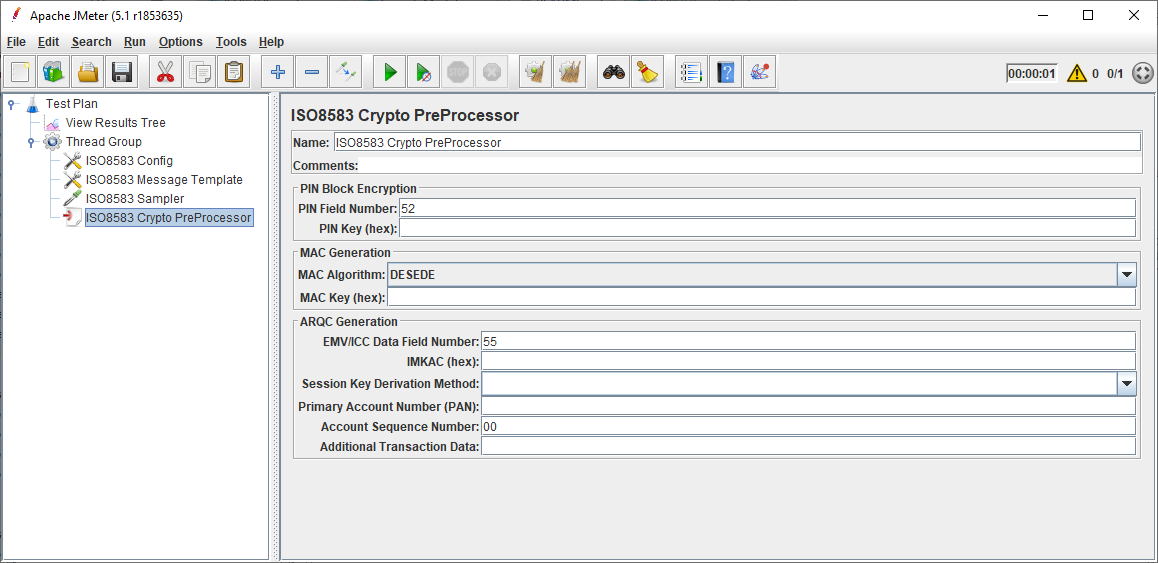
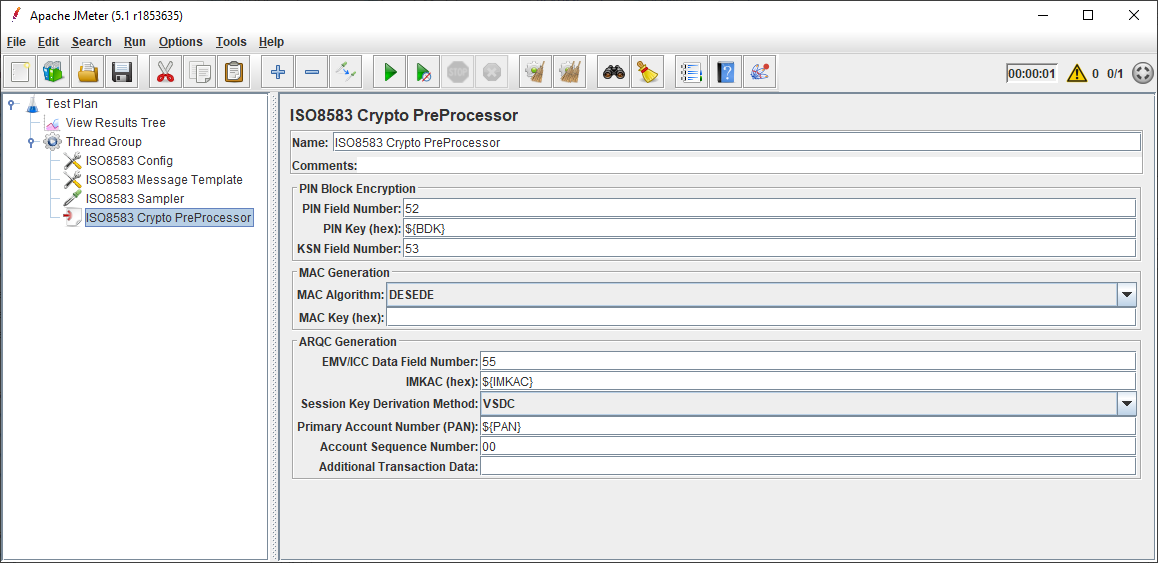
Add DUKPT PIN encryption

Changed region(s): [[0.0, 0.0, 1.0, 1.0]]

diff --git a/src/main/java/nz/co/breakpoint/jmeter/iso8583/ISO8583Crypto.java b/src/main/java/nz/co/breakpoint/jmeter/iso8583/ISO8583Crypto.java
@@ -33,6 +33,7 @@ public class ISO8583Crypto extends AbstractTestElement
         MACKEY = "macKey",
         PINFIELD = "pinField",
         PINKEY = "pinKey",
+        KSNFIELD = "ksnField",
         ICCFIELD = "iccField",
         IMKAC = "imkac",
         SKDM = "skdm",
@@ -114,7 +115,7 @@ public class ISO8583Crypto extends AbstractTestElement
     }
 
     protected void encryptPINBlock(ISO8583Sampler sampler) {
-        final String pinKeyHex = getPinKey(), pinField = getPinField();
+        final String pinKeyHex = getPinKey(), pinField = getPinField(), ksnField = getKsnField();
 
         if (pinField == null || pinField.isEmpty()) {
             log.debug("No PIN field defined, skipping PIN Block encryption");
@@ -141,11 +142,28 @@ public class ISO8583Crypto extends AbstractTestElement
             log.debug("No PIN Block defined, skipping PIN Block encryption");
             return;
         }
-        try {
-            sampler.addField(pinField, securityModule.encryptPINBlock(msg.getBytes(pinField), pinKey));
-        } catch (JCEHandlerException e) {
-            log.error("PIN Block encryption failed {}", e.toString(), e);
+        String encryptedPINBlock;
+        if (ksnField != null && !ksnField.isEmpty()) {
+            if (!msg.hasField(ksnField)) {
+                log.debug("No KSN defined, skipping PIN Block encryption");
+                return;
+            }
+            if (pinKeyHex.length() == 16) {
+                log.error("Incorrect BDK length '{}' (expecting 32 or 48 hex digits)", pinKeyHex);
+                return;
+            }
+            log.debug("KSN found, doing DUKPT encryption");
+            encryptedPINBlock = securityModule.encryptPINBlock(msg.getBytes(pinField), pinKeyHex, msg.getString(ksnField));
+        } else {
+            log.debug("No KSN defined, doing Zone PIN encryption");
+            try {
+                encryptedPINBlock = securityModule.encryptPINBlock(msg.getBytes(pinField), pinKey);
+            } catch (JCEHandlerException e) {
+                log.error("PIN Block encryption failed {}", e.toString(), e);
+                return;
+            }
         }
+        sampler.addField(pinField, encryptedPINBlock);
     }
 
     protected void calculateARQC(ISO8583Sampler sampler) {
@@ -168,10 +186,11 @@ public class ISO8583Crypto extends AbstractTestElement
             log.error("Incorrect IMKAC length '{}' (expecting 32 hex digits)", hexKey);
             return;
         }
+        final Map<String, String> emvData = new HashMap<>();
+        final String arqcFieldNo;
         try {
-            final Map<String, String> emvData = new HashMap<>();
             final ISOComponent emvField = msg.getComponent(fieldNo);
-            final String arqcFieldNo = String.format("%s.%d", fieldNo, emvField.getMaxField()+1);
+            arqcFieldNo = String.format("%s.%d", fieldNo, emvField.getMaxField()+1);
 
             for (Object c : emvField.getChildren().values()) {
                 if (c instanceof ISOTaggedField) {
@@ -184,30 +203,29 @@ public class ISO8583Crypto extends AbstractTestElement
                     log.debug("Ignoring non-tagged field {}", c);
                 }
             }
-            final String[] arqcInputTags = JMeterUtils.getPropDefault(ARQC_INPUT_TAGS,
-                "9F02,9F03,9F1A,95,5F2A,9A,9C,9F37,82,9F36,9F10"
-            ).split(TAG_SEPARATOR_REGEX);
-
-            final StringBuffer transactionData = new StringBuffer();
-            for (String tag : arqcInputTags) {
-                transactionData.append(emvData.getOrDefault(tag, ""));
-            }
-            transactionData.append(getTxnData()); // additional transaction data (as hex string)
-            log.debug("ARQC input bytes '{}'", transactionData);
-
-            final String arqc = securityModule.calculateARQC(MKDMethod.OPTION_A,
-                SKDMethod.valueOf(getSkdm()), hexKey,
-                emvData.getOrDefault(APPLICATION_PRIMARY_ACCOUNT_NUMBER_0x5A.getTagNumberHex(), getPan()),
-                emvData.getOrDefault(APPLICATION_PRIMARY_ACCOUNT_NUMBER_SEQUENCE_NUMBER_0x5F34.getTagNumberHex(), getPsn()),
-                emvData.getOrDefault(APPLICATION_TRANSACTION_COUNTER_0x9F36.getTagNumberHex(), ""),
-                emvData.getOrDefault(UNPREDICTABLE_NUMBER_0x9F37.getTagNumberHex(), ""),
-                transactionData.toString());
-
-            sampler.addField(arqcFieldNo, arqc, APPLICATION_CRYPTOGRAM_0x9F26.getTagNumberHex());
         } catch (ISOException e) {
-            log.error("ARQC calculation failed {}", e.toString(), e);
+            log.error("ARQC input extraction failed {}", e.toString(), e);
             return;
         }
+        final String[] arqcInputTags = JMeterUtils.getPropDefault(ARQC_INPUT_TAGS,
+            "9F02,9F03,9F1A,95,5F2A,9A,9C,9F37,82,9F36,9F10"
+        ).split(TAG_SEPARATOR_REGEX);
+
+        final StringBuffer transactionData = new StringBuffer();
+        for (String tag : arqcInputTags) {
+            transactionData.append(emvData.getOrDefault(tag, ""));
+        }
+        transactionData.append(getTxnData()); // additional transaction data (as hex string)
+
+        final String arqc = securityModule.calculateARQC(MKDMethod.OPTION_A,
+            SKDMethod.valueOf(getSkdm()), hexKey,
+            emvData.getOrDefault(APPLICATION_PRIMARY_ACCOUNT_NUMBER_0x5A.getTagNumberHex(), getPan()),
+            emvData.getOrDefault(APPLICATION_PRIMARY_ACCOUNT_NUMBER_SEQUENCE_NUMBER_0x5F34.getTagNumberHex(), getPsn()),
+            emvData.getOrDefault(APPLICATION_TRANSACTION_COUNTER_0x9F36.getTagNumberHex(), ""),
+            emvData.getOrDefault(UNPREDICTABLE_NUMBER_0x9F37.getTagNumberHex(), ""),
+            transactionData.toString());
+
+        sampler.addField(arqcFieldNo, arqc, APPLICATION_CRYPTOGRAM_0x9F26.getTagNumberHex());
     }
 
     public String getMacAlgorithm() { return getPropertyAsString(MACALGORITHM); }
@@ -221,6 +239,9 @@ public class ISO8583Crypto extends AbstractTestElement
 
     public String getPinField() { return getPropertyAsString(PINFIELD); }
     public void setPinField(String pinField) { setProperty(PINFIELD, pinField); }
+
+    public String getKsnField() { return getPropertyAsString(KSNFIELD); }
+    public void setKsnField(String ksnField) { setProperty(KSNFIELD, ksnField); }
 
     public String getIccField() { return getPropertyAsString(ICCFIELD); }
     public void setIccField(String iccField) { setProperty(ICCFIELD, iccField); }

diff --git a/src/main/java/nz/co/breakpoint/jmeter/iso8583/SecurityModule.java b/src/main/java/nz/co/breakpoint/jmeter/iso8583/SecurityModule.java
@@ -4,6 +4,7 @@ import java.lang.reflect.Field;
 import java.lang.reflect.InvocationTargetException;
 import java.lang.reflect.Method;
 import java.security.Key;
+import org.apache.jmeter.util.JMeterUtils;
 import org.bouncycastle.jce.provider.BouncyCastleProvider;
 import org.jpos.core.Configuration;
 import org.jpos.core.ConfigurationException;
@@ -15,6 +16,7 @@ import org.jpos.security.jceadapter.JCEHandlerException;
 import org.jpos.security.jceadapter.JCESecurityModule;
 import org.slf4j.Logger;
 import org.slf4j.LoggerFactory;
+import static nz.co.breakpoint.jmeter.iso8583.ISO8583TestElement.KSN_DESCRIPTOR;
 
 /* Extension of jPOS class to use non-public methods (like calculateARQC).
  */
@@ -105,24 +107,42 @@ public class SecurityModule extends JCESecurityModule {
         return "";
     }
 
-    // TODO WIP, untested
-    // PIN encryption with DUKPT
-    // https://github.com/jpos/jPOS/blob/v2_1_3/jpos/src/main/java/org/jpos/security/jceadapter/JCESecurityModule.java#L2452
-    public String encryptPINBlock(String baseKeyID, String deviceID, String transactionCounter,
-            String clearBDK, String clearPINBlock, boolean tdes) {
-        KeySerialNumber ksn = new KeySerialNumber(baseKeyID, deviceID, transactionCounter);
+    protected KeySerialNumber parseKSN(String ksn) {
+        final String ksnDescriptor = JMeterUtils.getPropDefault(KSN_DESCRIPTOR, "6-5-5");
+
+        if (!ksnDescriptor.matches("[0-9]+-[0-9]+-[0-9]+")) {
+            log.error("Invalid KSN Descriptor '{}'", ksnDescriptor);
+            return null;
+        }
+        String[] digits = ksnDescriptor.split("-");
+        int deviceIdStart = Integer.parseInt(digits[0]);
+        int deviceIdEnd = deviceIdStart + Integer.parseInt(digits[1]);
+        int totalDigits = deviceIdEnd + Integer.parseInt(digits[2]);
+
+        final String baseKeyID = ksn.substring(0, deviceIdStart),
+            deviceID = ksn.substring(deviceIdStart, deviceIdEnd),
+            transactionCounter = ksn.substring(deviceIdEnd, totalDigits);
+
+        return new KeySerialNumber(baseKeyID, deviceID, transactionCounter);
+    }
+
+    public String encryptPINBlock(byte[] clearPINBlock, String clearBDK, String keySerialNumber) {
         try {
-            SecureDESKey bdk = formKEYfromClearComponents(LENGTH_DES3_2KEY, TYPE_BDK, clearBDK); // TODO what keyLength?
-            byte[] derivedKey = calculateDerivedKey(ksn, bdk, tdes, false);
-            byte[] translatedPINBlock = specialEncrypt(ISOUtil.hex2byte(clearPINBlock), derivedKey);
+            KeySerialNumber ksn = parseKSN(keySerialNumber);
+            SecureDESKey bdk = formKEYfromClearComponents(LENGTH_DES3_2KEY, TYPE_BDK, clearBDK);
+
+            // https://github.com/jpos/jPOS/blob/v2_1_3/jpos/src/main/java/org/jpos/security/jceadapter/JCESecurityModule.java#L2452-L2453
+            byte[] derivedKey = calculateDerivedKey(ksn, bdk, true, false);
+            log.debug("UDK={}", ISOUtil.byte2hex(derivedKey));
+
+            byte[] translatedPINBlock = specialEncrypt(clearPINBlock, derivedKey);
             return ISOUtil.byte2hex(translatedPINBlock);
         } catch (SMException e) {
-            log.error("DUKPT PIN-Block encryption failed {}", e.toString(), e);
+            log.error("DUKPT PIN Block encryption failed {}", e.toString(), e);
         }
         return "";
     }
 
-    // TODO WIP, untested
     public String calculateCVV(String accountNo, Key cvk, String expDate, String serviceCode) {
         try {
             Method m = getClass().getSuperclass().getDeclaredMethod("calculateCVD",

diff --git a/src/test/java/nz/co/breakpoint/jmeter/iso8583/ISO8583CryptoTest.java b/src/test/java/nz/co/breakpoint/jmeter/iso8583/ISO8583CryptoTest.java
@@ -1,13 +1,16 @@
 package nz.co.breakpoint.jmeter.iso8583;
 
+import javax.crypto.spec.SecretKeySpec;
+import java.security.Key;
 import org.apache.jmeter.util.JMeterUtils;
 import org.jpos.iso.ISOException;
 import org.jpos.iso.ISOMsg;
+import org.jpos.iso.ISOUtil;
 import org.junit.Before;
 import org.junit.Test;
+import static org.junit.Assert.*;
 import static nz.co.breakpoint.jmeter.iso8583.ISO8583Crypto.skdMethods;
 import static nz.co.breakpoint.jmeter.iso8583.ISO8583TestElement.ARQC_INPUT_TAGS;
-import static org.junit.Assert.*;
 
 public class ISO8583CryptoTest extends ISO8583TestBase {
 
@@ -146,9 +149,9 @@ public class ISO8583CryptoTest extends ISO8583TestBase {
     @Test
     public void shouldAppendAdditionalARQCInputTags() throws ISOException {
         sampler.setFields(asMessageFields(
-                new MessageField("55.1", "ABCD", "9f1e"),
-                new MessageField("55.2", "01", "9f36"),
-                new MessageField("55.3", "11223344", "9f37")
+            new MessageField("55.1", "ABCD", "9f1e"),
+            new MessageField("55.2", "01", "9f36"),
+            new MessageField("55.3", "11223344", "9f37")
         ));
         instance.setImkac(DEFAULT_3DES_KEY);
         instance.setSkdm(skdMethods[0]);
@@ -164,5 +167,33 @@ public class ISO8583CryptoTest extends ISO8583TestBase {
         assertTrue(msg.hasField("55.4"));
         assertTrue(msg.hasField("55.5"));
         assertNotEquals(msg.getString("55.4"), msg.getString("55.5"));
+    }
+
+    @Test
+    public void shouldDUKPTEncryptPINBlock() {
+        instance.setPinField(String.valueOf(instance.PIN_FIELD_NO));
+        instance.setPinKey(DEFAULT_3DES_KEY);
+        instance.setKsnField(String.valueOf(instance.KSN_FIELD_NO));
+        String clearPinBlock = "041277cccddddeee";
+
+        sampler.addField(String.valueOf(instance.PIN_FIELD_NO), clearPinBlock);
+        sampler.addField(String.valueOf(instance.KSN_FIELD_NO), "9876543210E00001");
+        instance.process();
+
+        ISOMsg msg = sampler.getRequest();
+        assertTrue(msg.hasField(instance.PIN_FIELD_NO));
+        String pinBlock = msg.getString(instance.PIN_FIELD_NO);
+        assertEquals(clearPinBlock.length(), pinBlock.length());
+        assertEquals("C0F224AD1647A8EB", pinBlock);
+    }
+
+    @Test
+    public void shouldCalculateCVV() {
+        String pan = "4444333322221111", exp = "9911";
+        Key cvk = new SecretKeySpec(ISOUtil.hex2byte(DEFAULT_3DES_KEY), "DESede");
+        assertEquals("662", instance.securityModule.calculateCVV(pan, cvk, exp, "101")); // CVV
+        assertEquals("114", instance.securityModule.calculateCVV(pan, cvk, exp, "000")); // CVV2
+        assertEquals("163", instance.securityModule.calculateCVV(pan, cvk, exp, "999")); // iCVV
+
     }
 }

diff --git a/src/main/java/nz/co/breakpoint/jmeter/iso8583/ISO8583TestElement.java b/src/main/java/nz/co/breakpoint/jmeter/iso8583/ISO8583TestElement.java
@@ -7,6 +7,7 @@ import org.apache.jmeter.testbeans.TestBean;
 public interface ISO8583TestElement extends TestBean {
     int RESPONSE_CODE_FIELD_NO = 39,
         PIN_FIELD_NO = 52,
+        KSN_FIELD_NO = 53,
         ICC_FIELD_NO = 55,
         MAC_FIELD_NO = 64;
 
@@ -16,7 +17,8 @@ public interface ISO8583TestElement extends TestBean {
         Q2_STARTUP_TIMEOUT = "jmeter.iso8583.q2StartupTimeout",
         INCOMING_CONNECTION_TIMEOUT = "jmeter.iso8583.incomingConnectionTimeout",
         ARQC_INPUT_TAGS = "jmeter.iso8583.arqcInputTags",
-        BINARY_FIELD_TAGS = "jmeter.iso8583.binaryFieldTags";
+        BINARY_FIELD_TAGS = "jmeter.iso8583.binaryFieldTags",
+        KSN_DESCRIPTOR = "jmeter.iso8583.ksnDescriptor";
 
     String TAG_SEPARATOR_REGEX = "[,;:. ]";
 }

diff --git a/src/main/java/nz/co/breakpoint/jmeter/iso8583/ISO8583CryptoBeanInfo.java b/src/main/java/nz/co/breakpoint/jmeter/iso8583/ISO8583CryptoBeanInfo.java
@@ -10,7 +10,7 @@ public class ISO8583CryptoBeanInfo extends ISO8583TestElementBeanInfo {
         PropertyDescriptor p;
 
         createPropertyGroup("PIN", new String[]{
-             PINFIELD, PINKEY,
+             PINFIELD, PINKEY, KSNFIELD,
         });
 
         p = property(PINFIELD);
@@ -20,6 +20,10 @@ public class ISO8583CryptoBeanInfo extends ISO8583TestElementBeanInfo {
         p = property(PINKEY);
         p.setValue(NOT_UNDEFINED, Boolean.TRUE);
         p.setValue(DEFAULT, "");
+
+        p = property(KSNFIELD);
+        p.setValue(NOT_UNDEFINED, Boolean.TRUE);
+        p.setValue(DEFAULT, String.valueOf(ISO8583TestElement.KSN_FIELD_NO));
 
         createPropertyGroup("MAC", new String[]{
              MACALGORITHM, MACKEY,

diff --git a/README.md b/README.md
@@ -212,9 +212,9 @@ This is necessary for some fields that can only be determined during runtime of 
 rather than being generated before the test, as they may depend on dynamic session keys or other, dynamic message fields.
 
 Currently supported are the following operations:
-- *PIN Block Encryption*: Encrypts a clear PIN Block given a session PIN key.
+- *PIN Block Encryption*: Encrypts a clear PIN Block given a zone PIN key (ZPK) or base derivation key (BDK).
 - *MAC Generation*: Calculates the MAC (Message Authentication Code), given a session MAC key.
-- *ARQC Generation*: Calculates the Authorization Request Cryptogram (ARQC), given the Issuer Master Key (IMKAC).
+- *ARQC Generation*: Calculates the Authorization Request Cryptogram (ARQC), given the ICC Master Key (IMKAC).
 
 All keys need to be provided as clear (unencrypted) hex digits.
 
@@ -226,13 +226,22 @@ As the MAC depends on the entire message content, its calculation is the last to
 #### PIN Block Encryption
 
 - *PIN Field Number* (usually 52): A clear PIN Block in this field will be replaced with the encrypted one.
-- *PIN Key (hex)*: Clear Triple-DES key (16, 32 or 48 hex digits), usually from a a key exchange.
+- *PIN Key (hex)*: Clear DES key to use as ZPK for zone PIN encryption (16, 32 or 48 hex digits), 
+or Triple-DES key to use as BDK for DUKPT (32 hex digits).
+- *KSN Field Number* (usually 53): Empty for zone PIN encryption. Otherwise, for DUKPT encryption, 
+the 16 hex digits in this field will be interpreted as the Key Serial Number (KSN).
+
+The KSN scheme can be configured by changing the JMeter property `jmeter.iso8583.ksnDescriptor`. 
+For example, its default `6-5-5` means `bbbbbbdddddccccc` will be partitioned into 
+BDK ID `bbbbbb`, Device ID `ddddd`, and Counter `ccccc`.
 
 #### MAC Generation
 
 - *MAC Algorithm*: Cipher algorithm name for EDE or CBC MAC calculation 
 (refer [BouncyCastle specification](https://www.bouncycastle.org/specifications.html))
 - *MAC Key (hex)*: Clear Triple-DES key (32 or 48 hex digits), usually from a key exchange.
+
+The MAC field will be the next multiple of 64 from teh last field in the message (e.g. 64, 128, 192).
 
 #### ARQC Generation
 
@@ -245,6 +254,7 @@ and the calculated ARQC value will be added as an additional subfield.
 - *Additional Transaction Data*: Hex digits entered here will be appended to the sequence of ARQC input bytes 
 extracted from the ICC Data field. Useful if non-standard tags are to be included in the calculation.
 
+Missing ARQC input tags will be ignored, i.e. no validation mandatory is performed that all mandatory tags are present.
 
 Installation
 ------------
@@ -293,13 +303,16 @@ The following properties control the plugin behaviour:
 - `jmeter.iso8583.channelReconnectDelay` (ms): 
    May be used to override the Q2 Channel Adaptor default of 10 seconds.
 - `jmeter.iso8583.arqcInputTags`:
-   Comma-separated list of hexadecimal EMV Tag numbers that will be included in the ARQC calculation.
+   Comma-separated list of hexadecimal EMV tag numbers that will be included in the ARQC calculation.
    This may be used to include additional (or exclude standard) tags
    (default: `9F02,9F03,9F1A,95,5F2A,9A,9C,9F37,82,9F36,9F10`).
 - `jmeter.iso8583.binaryFieldTags`:
-   Comma-separated list of hexadecimal Tag numbers that will be interpreted as binary fields
+   Comma-separated list of hexadecimal tag numbers that will be interpreted as binary fields
    (default: none).
-
+- `jmeter.iso8583.ksnDescriptor`:
+   Defines the [Key Serial Number Scheme](https://en.wikipedia.org/wiki/Derived_unique_key_per_transaction#Practical_Matters_(KSN_scheme)),
+   i.e. the length (in hex digits) of the KSN parts - BDK ID (or KSI), Device ID (or TRSM ID), transaction counter
+   (default: "6-5-5").
 
 Limitations
 -----------
